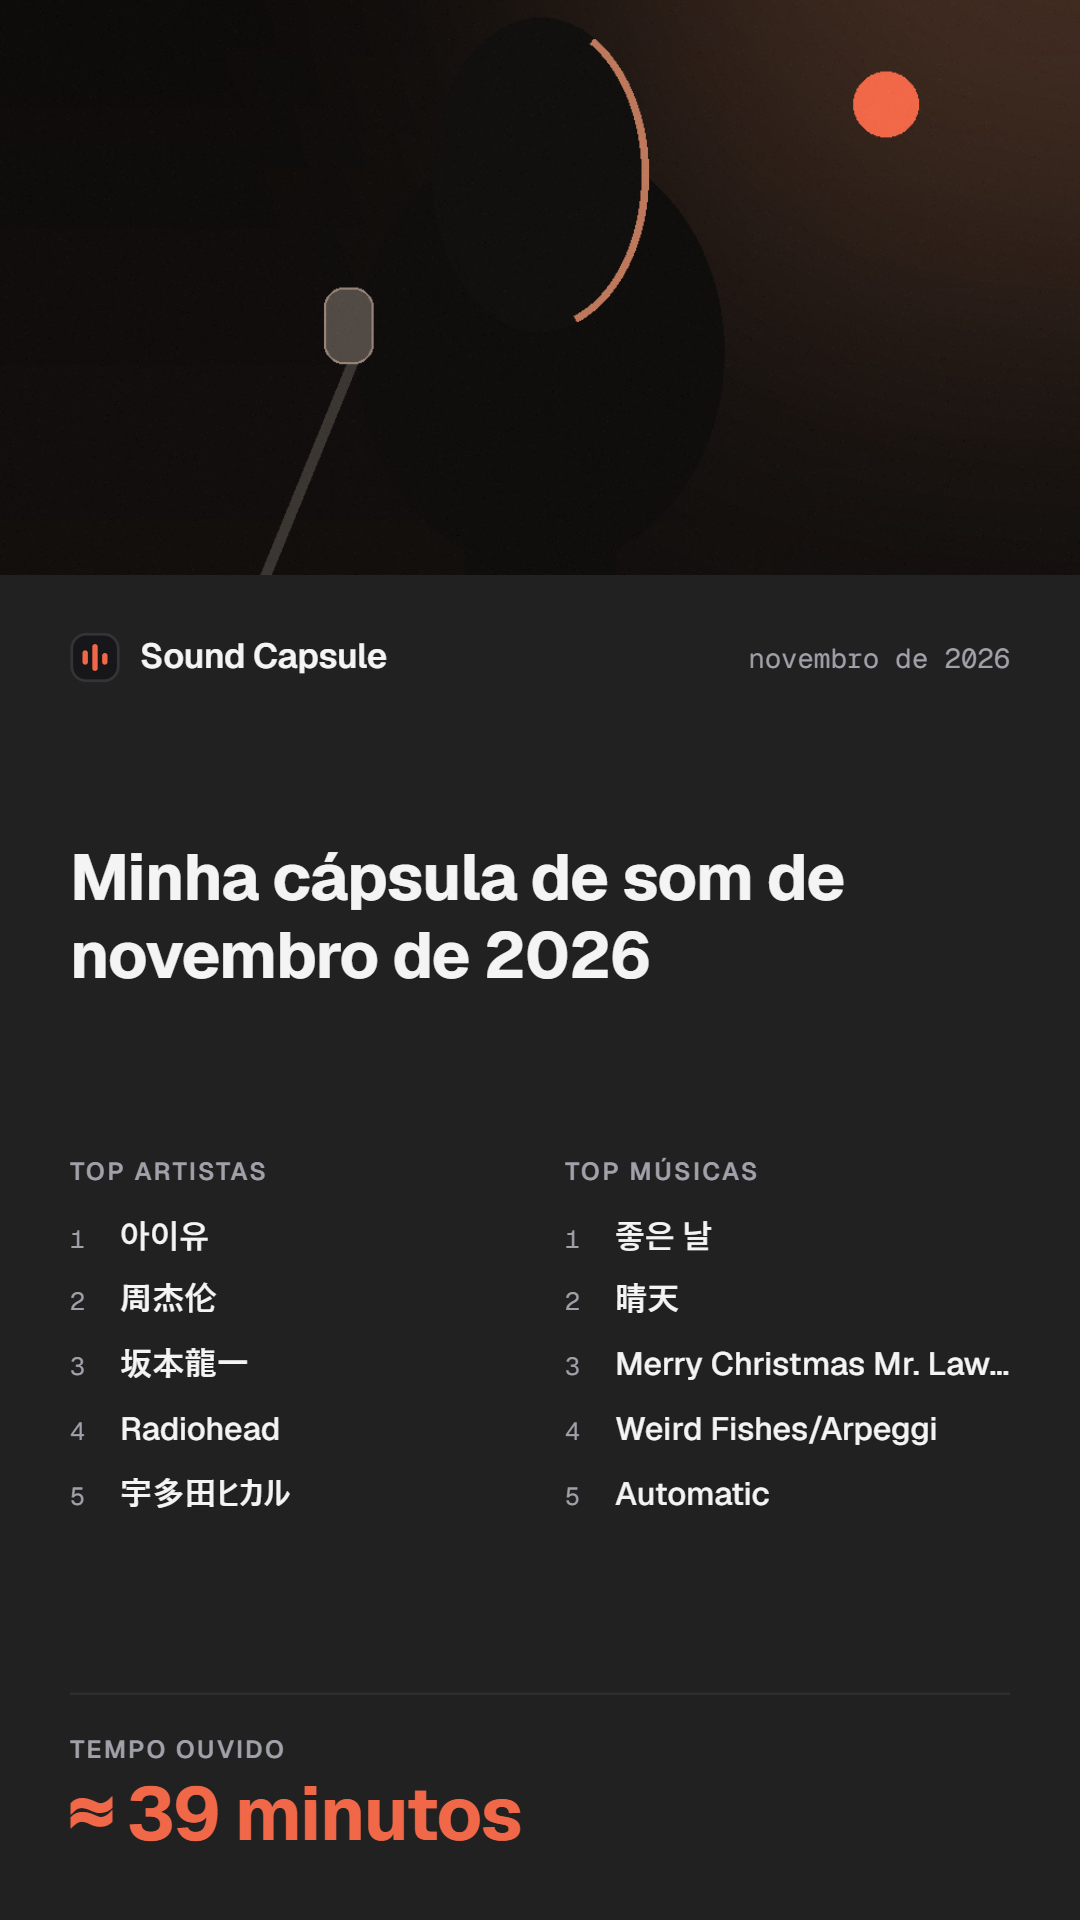
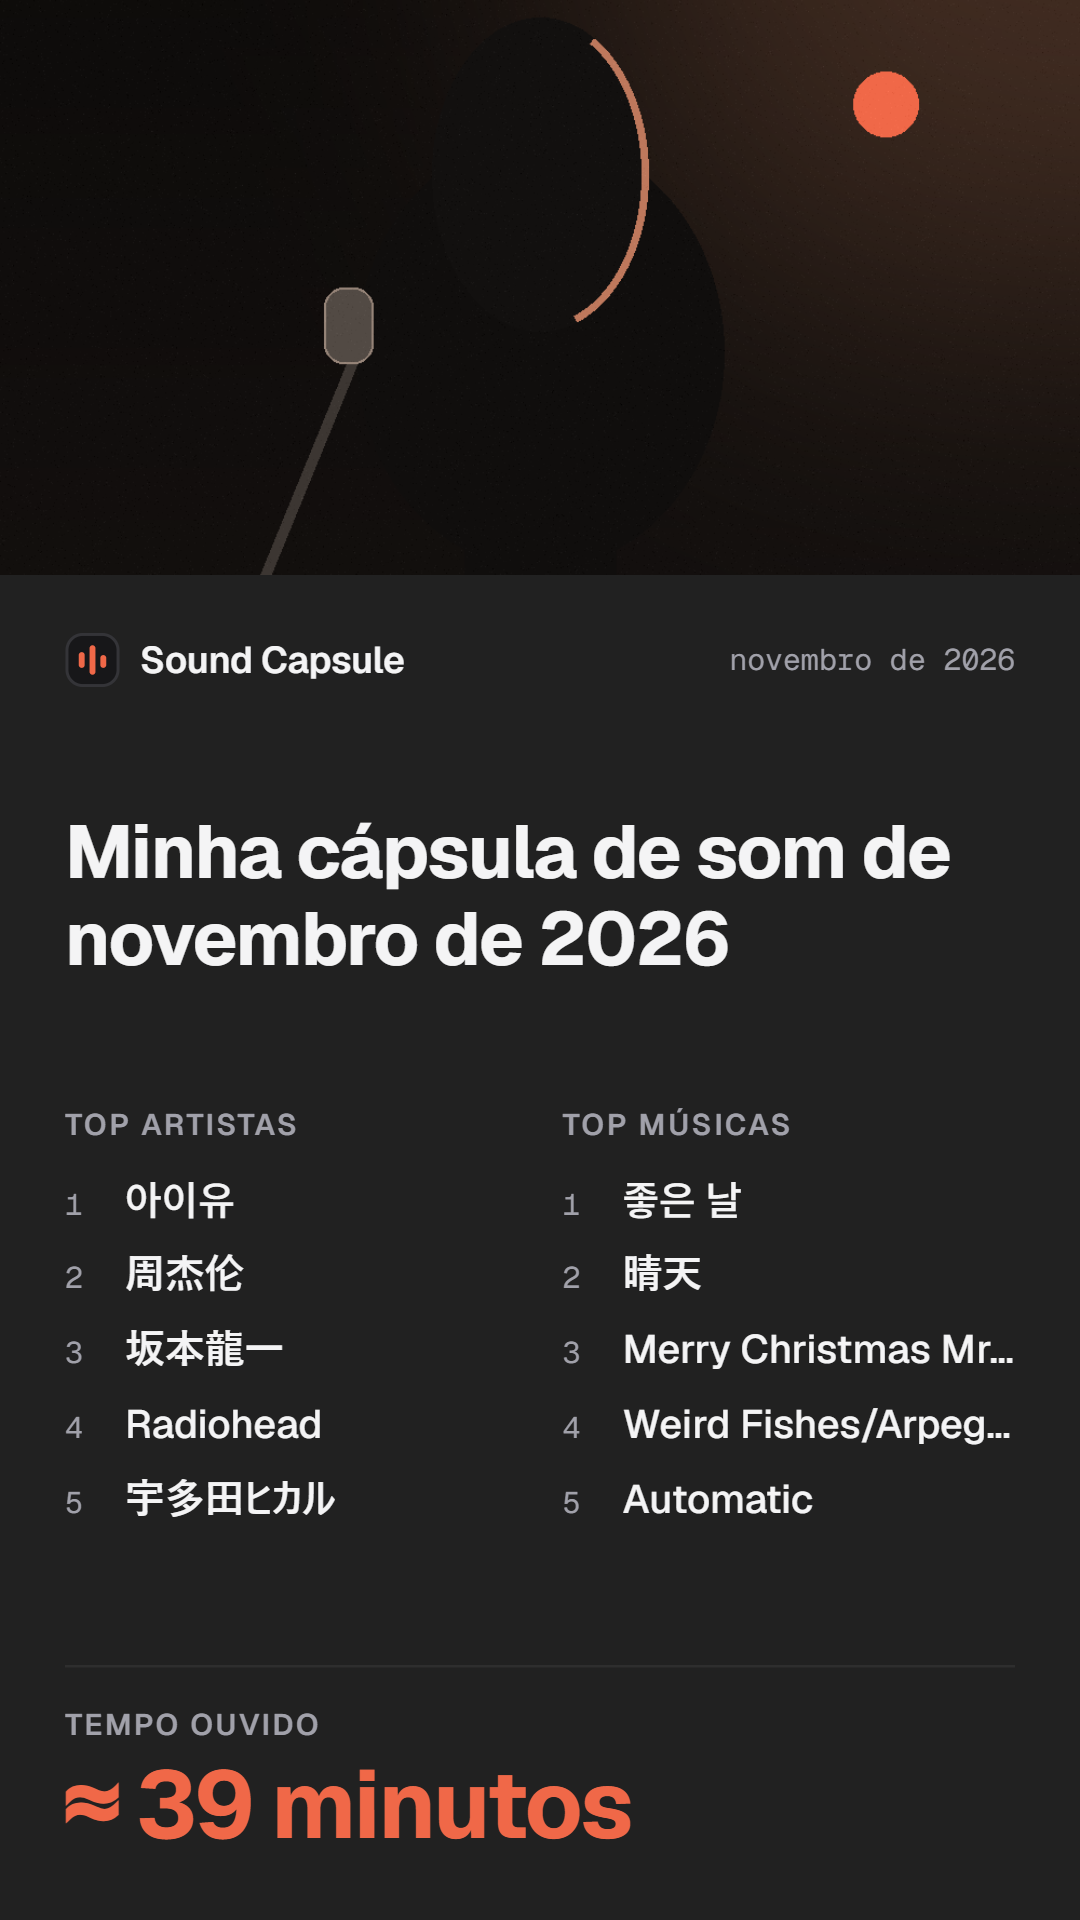
fix: improve capsule card legibility
Increase the title, list rows, headings, period and minutes typography on the 9:16 card, and widen the desktop preview to 320px so the preview and exported PNG are easier to read.

diff --git a/components/CapsuleCard.tsx b/components/CapsuleCard.tsx
@@ -68,7 +68,7 @@ export function CapsuleCard({
           display: 'flex',
           flexDirection: 'column',
           justifyContent: 'space-between',
-          padding: '22px 28px 24px',
+          padding: '22px 26px 24px',
           backgroundColor: '#212121',
         }}
       >
@@ -82,10 +82,10 @@ export function CapsuleCard({
           }}
         >
           <div style={{ display: 'flex', alignItems: 'center', gap: 8, flexShrink: 0 }}>
-            <BrandMark size={20} surface="#171719" border="#343438" />
+            <BrandMark size={22} surface="#171719" border="#343438" />
             <span
               style={{
-                fontSize: 14,
+                fontSize: 15.5,
                 fontWeight: 600,
                 letterSpacing: '-0.01em',
                 color: '#f4f4f5',
@@ -98,8 +98,8 @@ export function CapsuleCard({
           <span
             style={{
               fontFamily: 'var(--font-mono)',
-              fontSize: 11,
-              lineHeight: 1.3,
+              fontSize: 12.5,
+              lineHeight: 1.35,
               color: '#a1a1aa',
               textAlign: 'right',
               overflow: 'hidden',
@@ -116,10 +116,10 @@ export function CapsuleCard({
         <h2
           data-card-title
           style={{
-            fontSize: 26,
-            lineHeight: 1.2,
+            fontSize: 30,
+            lineHeight: 1.18,
             fontWeight: 700,
-            letterSpacing: '-0.015em',
+            letterSpacing: '-0.02em',
             color: '#f4f4f5',
             margin: 0,
             wordBreak: 'break-word',
@@ -133,7 +133,7 @@ export function CapsuleCard({
           style={{
             display: 'grid',
             gridTemplateColumns: '1fr 1fr',
-            columnGap: 20,
+            columnGap: 18,
             alignItems: 'start',
           }}
         >
@@ -159,9 +159,9 @@ export function CapsuleCard({
         >
           <span
             style={{
-              fontSize: 10.5,
+              fontSize: 12.5,
               fontWeight: 600,
-              letterSpacing: '0.09em',
+              letterSpacing: '0.08em',
               textTransform: 'uppercase',
               color: '#a1a1aa',
             }}
@@ -170,10 +170,10 @@ export function CapsuleCard({
           </span>
           <span
             style={{
-              fontSize: 30,
-              lineHeight: 1.15,
+              fontSize: 38,
+              lineHeight: 1.12,
               fontWeight: 700,
-              letterSpacing: '-0.02em',
+              letterSpacing: '-0.025em',
               color: '#F06848',
               fontVariantNumeric: 'tabular-nums',
             }}
@@ -196,12 +196,12 @@ function CardColumn({ heading, items }: CardColumnProps) {
     <div style={{ minWidth: 0 }}>
       <div
         style={{
-          fontSize: 10.5,
+          fontSize: 12.5,
           fontWeight: 600,
-          letterSpacing: '0.09em',
+          letterSpacing: '0.08em',
           textTransform: 'uppercase',
           color: '#a1a1aa',
-          marginBottom: 9,
+          marginBottom: 10,
         }}
       >
         {heading}
@@ -213,17 +213,17 @@ function CardColumn({ heading, items }: CardColumnProps) {
             style={{
               display: 'flex',
               alignItems: 'baseline',
-              gap: 7,
+              gap: 8,
               minWidth: 0,
-              marginBottom: 7,
+              marginBottom: 8,
             }}
           >
             <span
               style={{
                 fontFamily: 'var(--font-mono)',
-                fontSize: 10.5,
+                fontSize: 12.5,
                 color: '#a1a1aa',
-                width: 13,
+                width: 16,
                 flexShrink: 0,
                 fontVariantNumeric: 'tabular-nums',
               }}
@@ -235,7 +235,7 @@ function CardColumn({ heading, items }: CardColumnProps) {
               style={{
                 flex: 1,
                 minWidth: 0,
-                fontSize: 13.5,
+                fontSize: 16,
                 fontWeight: 500,
                 lineHeight: 1.35,
                 color: '#f4f4f5',
@@ -252,3 +252,4 @@ function CardColumn({ heading, items }: CardColumnProps) {
     </div>
   );
 }
+
